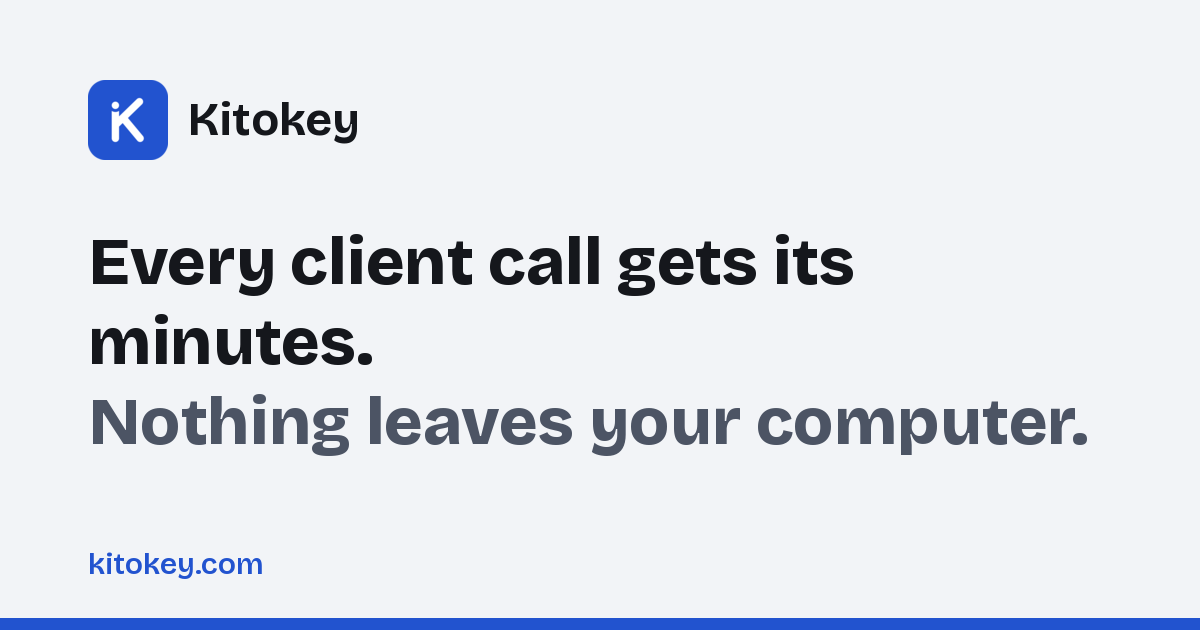
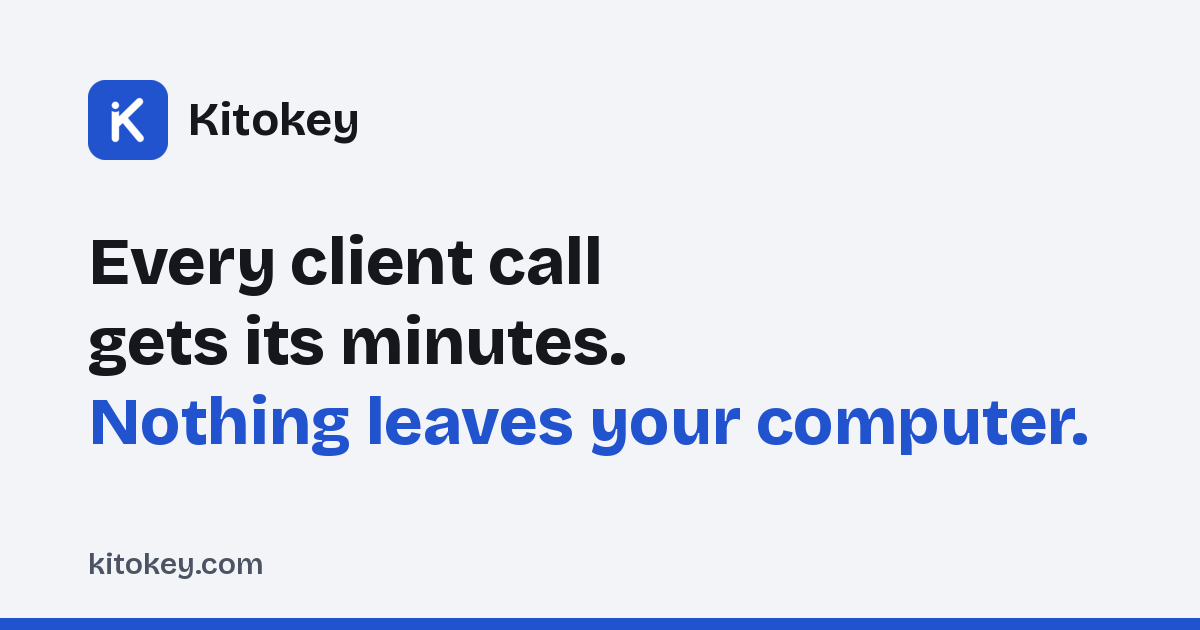
D114 — site: a link's picture as the hero, its second line in the accent, its lines balanced (lina's reading of #1339)
The promise's second line takes --accent (#2253CF, 5.94:1 on the ground), as .hero h1 .soft does; « kitokey.com »
the soft grey, so as not to compete. The lines are broken as text-wrap: balance breaks them: as few as fit, the
longest made shortest, so « minutes. » no longer stands alone in English.

Agent-Session: 0dfe2d51-5e28-4fd0-a8c4-964470174259

diff --git a/modules/site/scripts/og.py b/modules/site/scripts/og.py
@@ -1,9 +1,11 @@
 """The picture a link to the site shows (Open Graph, 1200 x 630, one per language): the mark, the name, the
-hero's promise (PDR-0009) in the titles' face, the address. Drawn once and kept in public/og/, as the marks
+hero's promise (PDR-0009) in the titles' face, its second line in the accent as the hero's (.hero h1 .soft), the
+address. Drawn once and kept in public/og/, as the marks
 are; drawn again when the promise changes, from modules/site: `python3 scripts/og.py` (Pillow, which reads
 public/fonts/bricolage-latin.woff2 and its instances, and ImageMagick's `magick` for public/kitokey.svg)."""
 
 import io
+from itertools import combinations
 import json
 import subprocess
 from pathlib import Path
@@ -22,14 +24,24 @@ def face(size: int, instance: bytes) -> ImageFont.FreeTypeFont:
 
 
 def lines(said: str, font: ImageFont.FreeTypeFont, width: int) -> list[str]:
-    """Broken between words where the next would pass `width`: the picture is never cut."""
-    out: list[str] = []
-    for word in said.split(" "):
-        if out and font.getlength(f"{out[-1]} {word}") <= width:
-            out[-1] = f"{out[-1]} {word}"
+    """As few lines as fit `width` (the picture is never cut), balanced as the hero's `text-wrap: balance`: of the
+    breaks giving that many lines, the one whose longest line is shortest, so no word stands alone."""
+    words = said.split(" ")
+    greedy: list[str] = []
+    for word in words:
+        if greedy and font.getlength(f"{greedy[-1]} {word}") <= width:
+            greedy[-1] = f"{greedy[-1]} {word}"
         else:
-            out.append(word)
-    return out
+            greedy.append(word)
+    count = len(greedy)
+    best, longest = greedy, max(font.getlength(line) for line in greedy)
+    for cuts in combinations(range(1, len(words)), count - 1):
+        bounds = (0, *cuts, len(words))
+        split = [" ".join(words[a:b]) for a, b in zip(bounds, bounds[1:])]
+        widest = max(font.getlength(line) for line in split)
+        if widest <= width and widest < longest:
+            best, longest = split, widest
+    return best
 
 
 hero = json.loads(subprocess.run(
@@ -47,9 +59,9 @@ for lang in ("en", "fr"):
     picture.paste(mark, (88, 80), mark)
     draw.text((188, 120), "Kitokey", font=face(46, b"Bold"), fill=INK, anchor="lm")
     title = face(66, b"ExtraBold")
-    said = [(line, INK) for line in lines(first, title, 1024)] + [(line, SOFT) for line in lines(second, title, 1024)]
+    said = [(line, INK) for line in lines(first, title, 1024)] + [(line, ACCENT) for line in lines(second, title, 1024)]
     for i, (line, fill) in enumerate(said):
         draw.text((88, 284 + i * 80), line, font=title, fill=fill, anchor="ls")
-    draw.text((88, 574), "kitokey.com", font=face(30, b"SemiBold"), fill=ACCENT, anchor="ls")
+    draw.text((88, 574), "kitokey.com", font=face(30, b"SemiBold"), fill=SOFT, anchor="ls")
     draw.rectangle((0, 618, 1200, 630), fill=ACCENT)
     picture.save(ROOT / "public" / "og" / f"og-{lang}.png", optimize=True)
